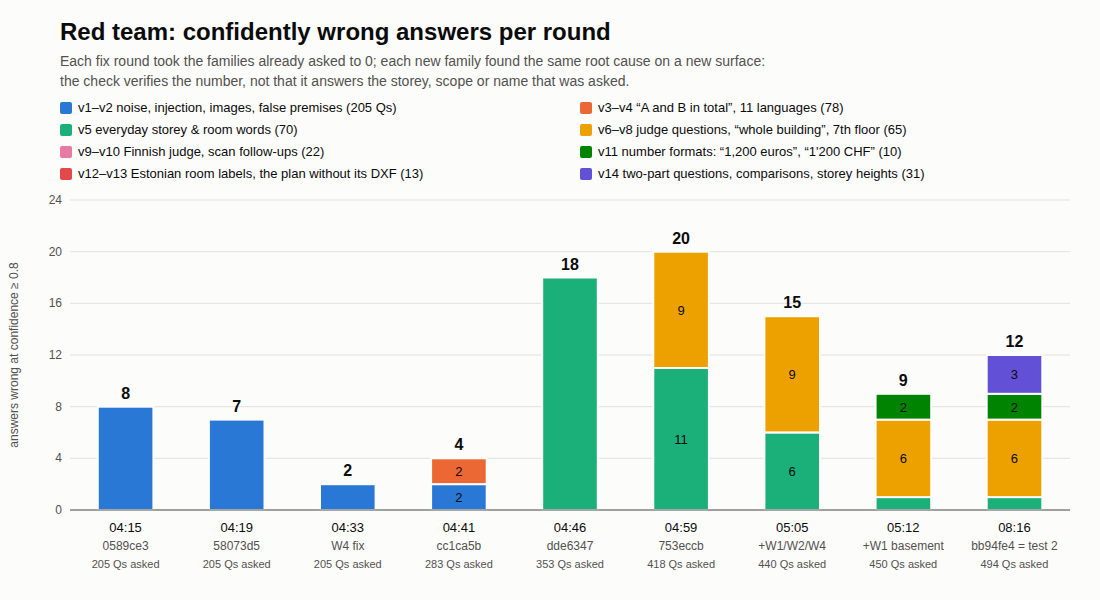
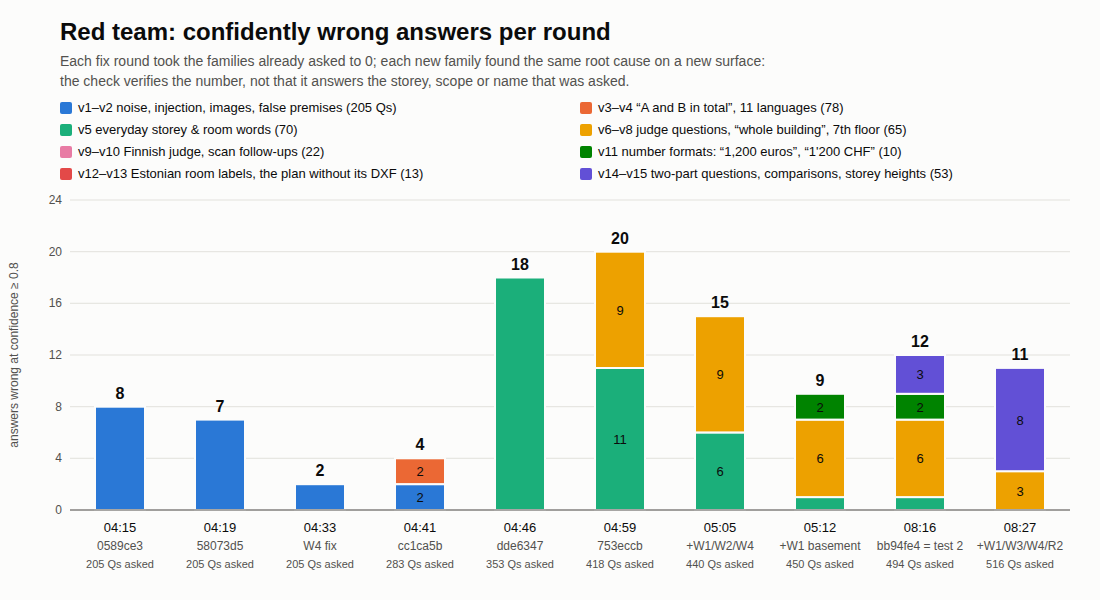
Q: pre-merge check #4 (9 won, 1 lost, confident misses 17 -> 11; W1 ground-floor calibration regression), v15 results, chart round 08:27

Changed region(s): [[0.0618, 0.39, 0.9582, 0.96], [0.5564, 0.27, 0.8655, 0.3], [0.0927, 0.63, 0.1236, 0.66]]

diff --git a/experiments/q/plot_rounds.py b/experiments/q/plot_rounds.py
@@ -7,15 +7,16 @@ SER = ["#2a78d6", "#eb6834", "#1baf7a", "#eda100", "#e87ba4", "#008300", "#e3494
 FAMS = ["v1–v2 noise, injection, images, false premises (205 Qs)", "v3–v4 “A and B in total”, 11 languages (78)",
         "v5 everyday storey &amp; room words (70)", "v6–v8 judge questions, “whole building”, 7th floor (65)",
         "v9–v10 Finnish judge, scan follow-ups (22)", "v11 number formats: “1,200 euros”, “1'200 CHF” (10)",
-        "v12–v13 Estonian room labels, the plan without its DXF (13)", "v14 two-part questions, comparisons, storey heights (31)"]
-SIZES = [205, 78, 70, 65, 22, 10, 13, 31]
+        "v12–v13 Estonian room labels, the plan without its DXF (13)", "v14–v15 two-part questions, comparisons, storey heights (53)"]
+SIZES = [205, 78, 70, 65, 22, 10, 13, 53]
 ROUNDS = [("04:15", "0589ce3"), ("04:19", "58073d5"), ("04:33", "W4 fix"), ("04:41", "cc1ca5b"), ("04:46", "dde6347"),
           ("04:59", "753eccb"), ("05:05", "+W1/W2/W4"), ("05:12", "+W1 basement"),
-          ("08:16", "bb94fe4 = test 2")]
+          ("08:16", "bb94fe4 = test 2"), ("08:27", "+W1/W3/W4/R2")]
+ASKED = {8: 494}  # rounds that asked only part of a family (08:16: v14 without v15)
 DATA = [[8, None, None, None, None, None, None, None], [7, None, None, None, None, None, None, None],
         [2, None, None, None, None, None, None, None], [2, 2, None, None, None, None, None, None],
         [0, 0, 18, None, None, None, None, None], [0, 0, 11, 9, None, None, None, None], [0, 0, 6, 9, 0, None, None, None],
-        [0, 0, 1, 6, 0, 2, None, None], [0, 0, 1, 6, 0, 2, 0, 3]]
+        [0, 0, 1, 6, 0, 2, None, None], [0, 0, 1, 6, 0, 2, 0, 3], [0, 0, 0, 3, 0, 0, 0, 8]]
 W, H = 1100, 600
 L, R, T, B = 70, 30, 200, 90          # plot margins
 YMAX = 24
@@ -52,7 +53,7 @@ for i, (row, (t, c)) in enumerate(zip(DATA, ROUNDS)):
             o.append(f'<text x="{cx:.1f}" y="{(y0 + y1) / 2 + 5:.1f}" font-size="13" fill="{INK}" '
                      f'text-anchor="middle">{v}</text>')
         bottom += v
-    asked = sum(n for n, v in zip(SIZES, row) if v is not None)
+    asked = ASKED.get(i) or sum(n for n, v in zip(SIZES, row) if v is not None)
     o.append(f'<text x="{cx:.1f}" y="{y(bottom) - 8:.1f}" font-size="16" font-weight="700" fill="{INK}" '
              f'text-anchor="middle">{bottom}</text>')
     o.append(f'<text x="{cx:.1f}" y="{T + ph + 22}" font-size="13" fill="{INK}" text-anchor="middle">{t}</text>'

diff --git a/redteam/REPORT.md b/redteam/REPORT.md
@@ -37,8 +37,8 @@ caused by the perturbation, not by the drawing.
    Unscored but visible: two-part questions to dxf answer one part at 0.60 ("3" with unit m² for "how many rooms
    and what is their total area", bug 20, W2); on scans, unanswerable questions still get an invented number (514
    seats at 0.34) with no reason given (v10, W4).
-5. **Demo safety.** All 21 demo/tour questions give the expected answers on the test-2 build (19 right + the 2
-   deliberate misses, `demo/LIVE-CHECK.md`, 08:16). Judge-style questions on the three demo drawings (v6, v9, v12,
+5. **Demo safety.** 19 of the 21 demo/tour questions are as expected on the test-2 build; the other 2 are known
+   (the deliberate step-10 miss and an unquoted corridor wording the script avoids) (`demo/LIVE-CHECK.md`, 08:16). Judge-style questions on the three demo drawings (v6, v9, v12,
    v14) are sorted into safe / avoid in `demo/DEMO.md` ("If a judge types their own question").
 
 | family (rows) | what it asks | bb94fe4 (test 2): scored right · false premises handled · wrong at ≥ 0.8 |
@@ -577,6 +577,29 @@ spaces) — "How high above the ground floor is the top floor?" → 15.10 at 0.5
 Küchen gibt es … und wie gross ist die grösste?" → 4 only. Not confident, but wrong on screen. Fix: detect the second
 question and answer every part, or cap ≤ 0.3 with "answers only the count".
 
+## v15 (08:26): bug-18 probe — "how many X and how many Y" in 8 languages, with controls — 22 Qs
+Run `20261114-082629-pipeline-v15-7ba9` on night 5996739 (identical on bb94fe4, `-d553`). A repeated question word
+asks for two numbers (meta.parts); "in total" asks for one; a bare "X and Y" is ambiguous (both numbers or the sum
+accepted). **Two numbers asked: ifc 3/3 (W1's multi-part split: ET "Mitu ust ja mitu akent …" → "46 …; 55 …" at
+0.80), CubiCasa 2/2 (agent: "3 bedrooms and 1 sauna"), Swiss 0/10** — EN wordings ("…, and how many windows?", "Give
+me the number of doors and the number of windows", "…, respectively?") → compose's sum 64 / 32 **at 0.98**; Finnish →
+the agent answers doors only, 36 **at 0.95**; DE/FR/IT/NL/SV → dxf sums, 64 at 0.59–0.69. Controls hold: "in total" /
+"insgesamt" / "altogether" 4/4, bare "doors and windows" 3/3 (sum). W4 (compose, agent) and W2 (dxf) have the rows.
+
+## Pre-merge check #4 (08:27): night 5996739 + W1 059e9c4 + W3 1882e96 + W4 d40778d + R2 2ccace2 + R1 2941e4a
+All 516 rows, run `20261114-082711-pipeline-questions-v15-2f2a` vs night (`70ad` + `7216` + `7ba9`, same code as
+snapshot #3): **9 won, 1 lost; scored 89.7 → 91.4 %; confident misses 17 → 11** (scored wrong at ≥ 0.8 12 → 8,
+false premises at ≥ 0.8 5 → 3); core 283 rows 187/187 right at ≥ 0.8, 0/24 premises. Won: **bug 17 fixed** ("1,200
+euros" → 55,200 and "€1,500" → 69,000 at 0.92, German "1.200 €" 55,200 at 0.75, Swiss "1'200 CHF" 43,200 at 0.89 via
+the agent), "how many floors" 7 → 5 (EN, FI), Finnish "kellarikerroksessa" 50 → 20, "top floor" 0 → 39, "1.korrus
+and 2.korrus together" 42 → 88, "the 7th / eighth floor" 46 at 0.98 → 0 at 0.50; "Are there more doors on '2.korrus'
+than on '5.korrus'?" now "yes (42 vs 3…)" at 0.89; the Swiss PNG's apartment B 16.78 → 77.79 m² at 0.50 (gold 80.83,
+W3). Lost: the Swiss "1,200 euros per door" → 91,200 at 0.45 (dxf table code multiplied by all objects; LLM noise,
+was 43,200 at 0.45). **Calibration regression (W1 059e9c4): 7 right "ground floor" answers drop from 0.98 to 0.29**
+— on smiley-west ('EG') and esplanades ('1.korrus') "ground floor" now "matches no single storey" and is answered
+for the sheet's storey, right only by coincidence. Left at ≥ 0.8: bug 18 (Swiss two-number questions, 5 + 3 in
+v14/v15), bug 19 (ifc "ground floor, and … top floor" → 211; 211), one-floor "whole building" ×3 (W2).
+
 ## For Saturday noon: red-team Stoa's example questions in one command (`redteam/from_examples.py`)
 Put Stoa's examples in a jsonl (`path`, `question`, and `answer` / `unit` when known; a path may be absolute), then
 ```
@@ -602,8 +625,8 @@ stayed 3 but moved confidence band (0.75 → 0.35 / 0.92).
 - Rotated, grayscale, heavily compressed and half-resolution copies of a plan: 30/30 right, at the same confidence.
 
 ## Re-run
-`questions.jsonl` now has 494 rows: v1 (174) + v2 (31) + v3 Swiss compositions (42) + v4 CubiCasa compositions (36) +
-v5 natural references (70) + v6 judge questions on the demo drawings (21) + v7 scope words in 9 languages (36) + v8 scope premises (8) + v9 Finnish judge (14) + v10 scan follow-ups (8) + v11 number formats (10) + v12 Estonian labels (5) + v13 lone PDF/PNG (8) + v14 two-part / comparisons / heights / which (31) = 494; earlier rows are byte-identical across builds (checked with cmp), so runs on the first 205 /
+`questions.jsonl` now has 516 rows: v1 (174) + v2 (31) + v3 Swiss compositions (42) + v4 CubiCasa compositions (36) +
+v5 natural references (70) + v6 judge questions on the demo drawings (21) + v7 scope words in 9 languages (36) + v8 scope premises (8) + v9 Finnish judge (14) + v10 scan follow-ups (8) + v11 number formats (10) + v12 Estonian labels (5) + v13 lone PDF/PNG (8) + v14 two-part / comparisons / heights / which (31) + v15 bug-18 probe (22) = 516; earlier rows are byte-identical across builds (checked with cmp), so runs on the first 205 /
 283 rows compare directly (`python3 $JUNCTION_SHARED/artifacts/Q/subset_stats.py <run> 283`). Build with
 `PYTHONHASHSEED=0 PYTHONPATH=.`; v5 calls the ifc solver for its gold (deterministic, < 1 s per row).
 ```
